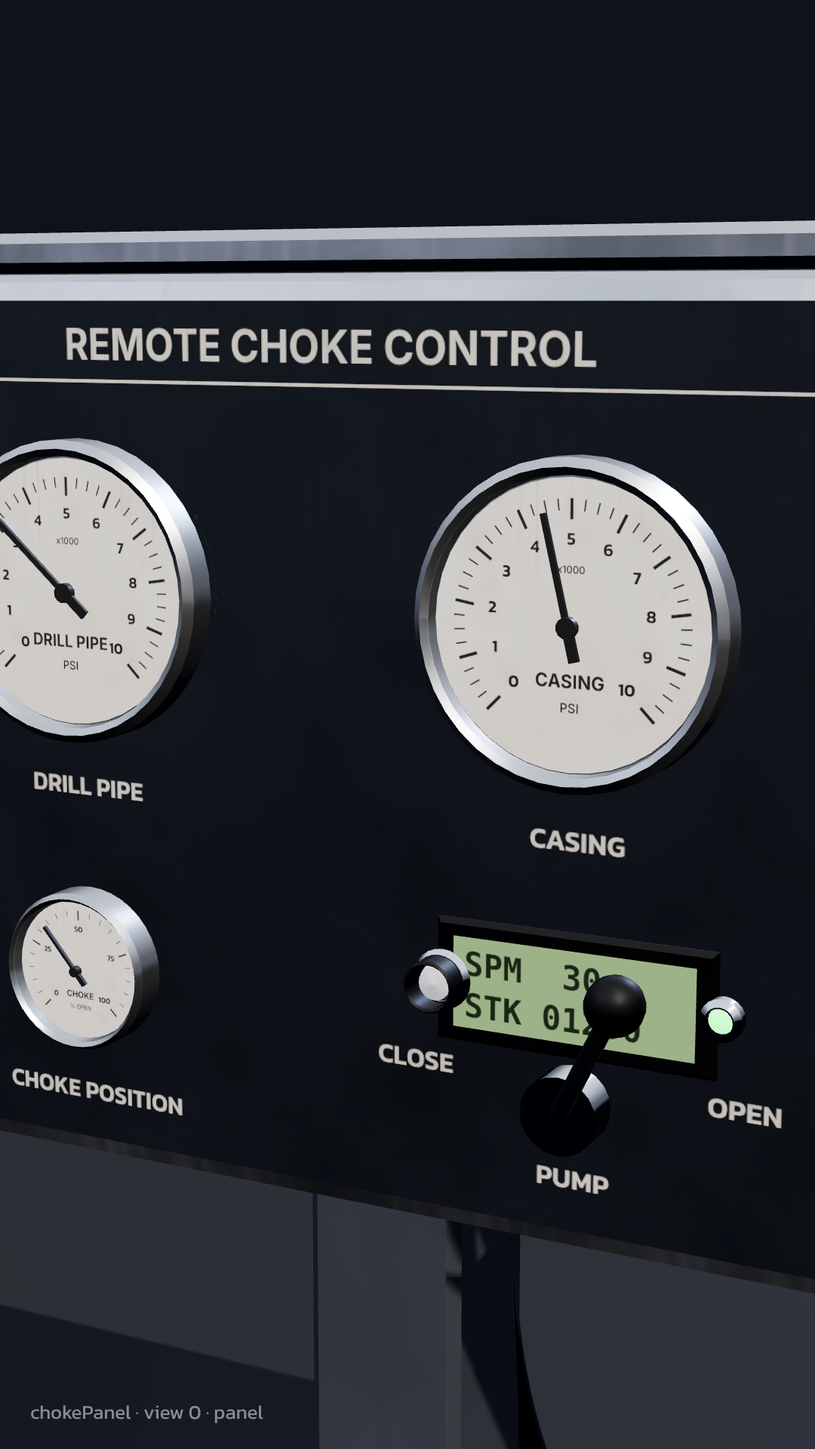
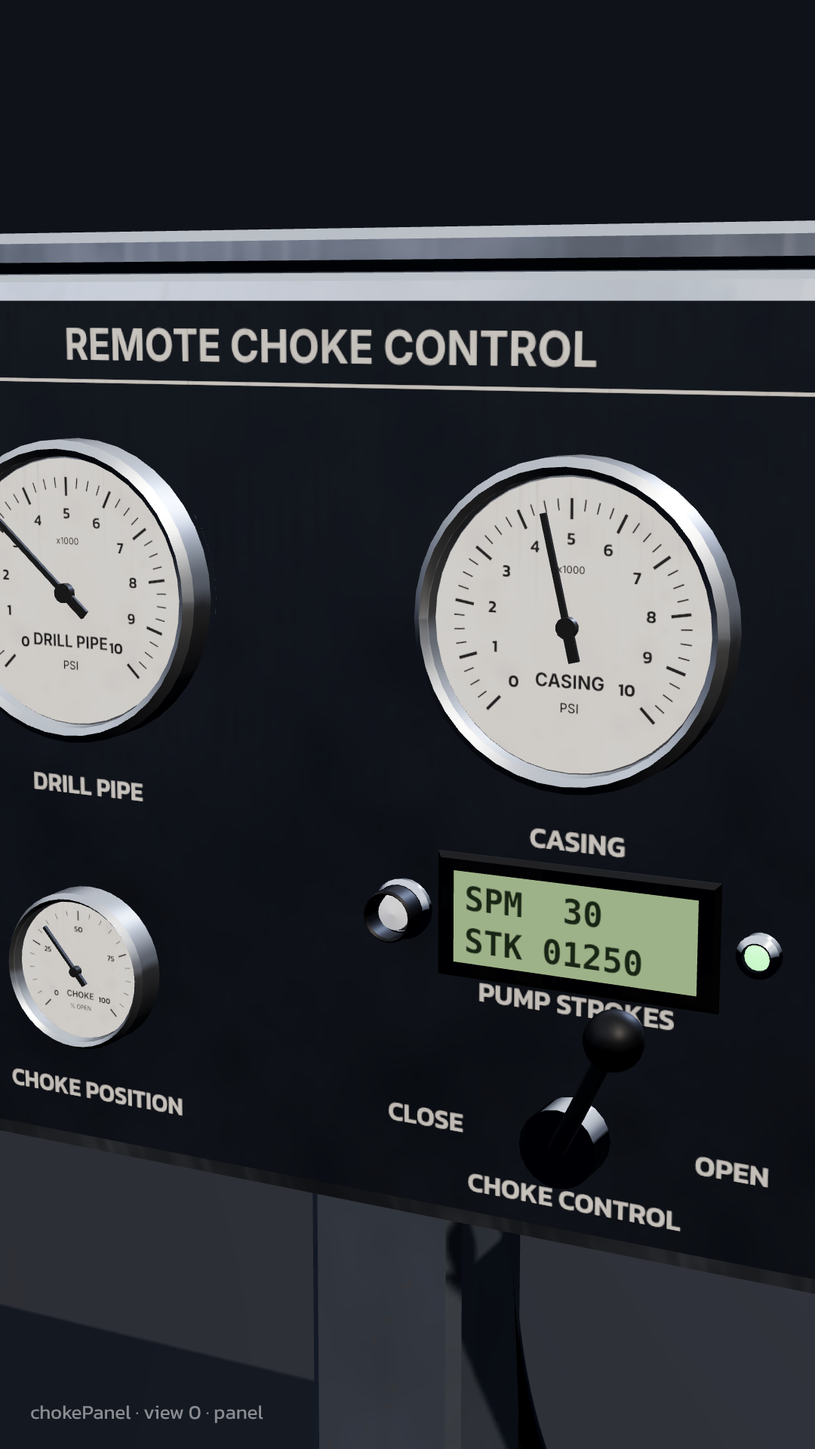
EP05 Part 5: score + 9 new realistic SFX (music.js)
Claude-Session: https://claude.ai/code/session_01KpdDVCL1h8kp9iBLHqqnBc

Changed region(s): [[0.4583, 0.5938, 0.9167, 0.875], [0.8556, 0.75, 0.9778, 0.8438], [0.9167, 0.625, 0.9472, 0.6875]]

diff --git a/ep05-rig-p5-wellcontrol/assets_p5.js b/ep05-rig-p5-wellcontrol/assets_p5.js
@@ -1452,7 +1452,7 @@ vec3 wTri(vec3 p, vec3 n, out float side) {
     const fluid = new THREE.Mesh(lathe([[0, 0.058], ...inner.map(p => [p[0] - 0.002, p[1], 1]), [0, Hh - 0.035]], SEG(40)), fluidM); CB.add(fluid);
     // bladder: hangs from the top, its shape squeezes with the charge level
     const bl = new THREE.Group(); bl.position.y = Hh - 0.06; CB.add(bl);
-    const bprof = []; for (let i = 0; i <= 18; i++) { const t = i / 18; const y = -t; const r = (R - 0.02) * Math.sin(Math.min(1, t * 6) * PI / 2) * (t > 0.85 ? Math.cos((t - 0.85) / 0.15 * PI / 2) : 1); bprof.push([Math.max(0.0, r), y * (Hh - 0.13)]); }
+    const bprof = []; for (let i = 0; i <= 18; i++) { const t = i / 18; const y = -t; const r = (R - 0.0135) * Math.sin(Math.min(1, t * 6) * PI / 2) * (t > 0.85 ? Math.cos((t - 0.85) / 0.15 * PI / 2) : 1); bprof.push([Math.max(0.0, r), y * (Hh - 0.13)]); }
     const blOuter = bprof.map(p => [p[0], p[1], 1]), blInner = bprof.map(p => [Math.max(0, p[0] - 0.005), p[1] + 0.005, 1]);
     const bladder = new THREE.Mesh(lathe([[0.01, 0], ...blOuter.slice(1), ...blInner.slice(1).reverse(), [0.01, 0]], SEG(40)), CP.rubber); bl.add(bladder);
     const n2 = new THREE.Mesh(lathe([[0, -0.004], ...blInner.slice(1).map(p => [Math.max(0, p[0] - 0.001), p[1], 1]), [0, blInner[blInner.length - 1][1]]], SEG(40)), n2M); bl.add(n2);
@@ -1580,8 +1580,8 @@ vec3 wTri(vec3 p, vec3 n, out float side) {
     const c = canvas(1024, 820), x = c.getContext('2d');
     x.fillStyle = '#2a3038'; x.fillRect(0, 0, 1024, 820);
     x.fillStyle = '#e8e4da'; x.font = `700 40px ${FONT}`; x.textAlign = 'center'; x.fillText('REMOTE CHOKE CONTROL', 512, 54); x.fillRect(40, 72, 944, 3);
-    x.font = `600 26px ${FONT}`; x.fillText('DRILL PIPE', 260, 470); x.fillText('CASING', 764, 470); x.fillText('CHOKE POSITION', 260, 780); x.fillText('PUMP', 764, 780);
-    x.fillText('CLOSE', 610, 690); x.fillText('OPEN', 920, 690);
+    x.font = `600 26px ${FONT}`; x.fillText('DRILL PIPE', 260, 470); x.fillText('CASING', 764, 470); x.fillText('CHOKE POSITION', 260, 780); x.fillText('PUMP STROKES', 764, 618); x.fillText('CHOKE CONTROL', 764, 800);
+    x.fillText('CLOSE', 620, 745); x.fillText('OPEN', 910, 745);
     grime(x, 1024, 820, 23, 0.08);
     const fp = new THREE.Mesh(new THREE.PlaneGeometry(W - 0.04, Hc - 0.04), labelMat(ctex(c), { metal: 0.1, rough: 0.6 })); face.add(fp);
     const fx = px => (px / 1024 - 0.5) * (W - 0.04), fy = py => (0.5 - py / 820) * (Hc - 0.04);
@@ -1590,16 +1590,16 @@ vec3 wTri(vec3 p, vec3 n, out float side) {
     const cp = gauge(P, 0.06, dialTex({ max: 100, major: 25, minor: 5, label: 'CHOKE', sub: '% OPEN' }), { stem: 0 }); cp.group.position.set(fx(260), fy(640), 0.012); face.add(cp.group);
     // LCD stroke counter
     const lc = canvas(512, 192), lx = lc.getContext('2d'), lt = ctex(lc);
-    const lcd = new THREE.Mesh(new THREE.PlaneGeometry(0.19, 0.07), new THREE.MeshBasicMaterial({ map: lt, toneMapped: false })); lcd.position.set(fx(764), fy(600), 0.006); face.add(lcd);
-    B.add('black', place(cbox(0.22, 0.095, 0.02, 0.004), [fx(764), 1.0 + Hc / 2 + fy(600), D / 2 - 0.004]));
+    const lcd = new THREE.Mesh(new THREE.PlaneGeometry(0.19, 0.07), new THREE.MeshBasicMaterial({ map: lt, toneMapped: false })); lcd.position.set(fx(764), fy(540), 0.006); face.add(lcd);
+    B.add('black', place(cbox(0.22, 0.095, 0.02, 0.004), [fx(764), 1.0 + Hc / 2 + fy(540), D / 2 - 0.004]));
     const drawLCD = (spm, stk) => { lx.fillStyle = '#9db08a'; lx.fillRect(0, 0, 512, 192); lx.fillStyle = '#1d2a1a'; lx.font = `700 70px ${MONO}`; lx.textAlign = 'left';
       lx.fillText(`SPM ${String(Math.round(spm)).padStart(3, ' ')}`, 24, 80); lx.fillText(`STK ${String(Math.round(stk)).padStart(5, '0')}`, 24, 168); lt.needsUpdate = true; };
     // choke control lever (3-position, spring return to HOLD)
-    const lev = new THREE.Group(); lev.position.set(fx(764), fy(700), 0.01); face.add(lev);
-    { const hub = new THREE.Mesh(toZ(cyl(0.03, 0.03, 20)), P.chrome); hub.position.set(fx(764), fy(700), 0.015); face.add(hub); }
+    const lev = new THREE.Group(); lev.position.set(fx(764), fy(730), 0.01); face.add(lev);
+    { const hub = new THREE.Mesh(toZ(cyl(0.03, 0.03, 20)), P.chrome); hub.position.set(fx(764), fy(730), 0.015); face.add(hub); }
     const LB = bin(); LB.add('chrome', cylBetween([0, 0, 0.02], [0, 0.11, 0.05], 0.007, 10)); LB.add('black', place(new THREE.SphereGeometry(0.022, 16, 10), [0, 0.115, 0.052])); LB.build(lev, P, 'lever');
-    const pl = lamp(P, 0x22c55e, 0.01); pl.group.position.set(fx(900), fy(600), 0); face.add(pl.group);
-    const rb = pushButton(P, 0xe5e7eb, 0.015); rb.group.position.set(fx(640), fy(600), 0); face.add(rb.group);
+    const pl = lamp(P, 0x22c55e, 0.01); pl.group.position.set(fx(930), fy(540), 0); face.add(pl.group);
+    const rb = pushButton(P, 0xe5e7eb, 0.015); rb.group.position.set(fx(600), fy(540), 0); face.add(rb.group);
     B.build(g, P, 'panel');
     g.api.setDP = v => dp.setValue(v); g.api.setCasing = v => cs.setValue(v); g.api.setChokePos = u => cp.setValue(clamp(u));
     g.api.setLever = u => { lev.rotation.z = lerp(0.5, -0.5, clamp(u)); };
@@ -1758,7 +1758,7 @@ vec3 wTri(vec3 p, vec3 n, out float side) {
     H.moveTo(-0.199, -0.03); H.lineTo(-0.05, -0.03); H.lineTo(-0.05, 0.135); H.lineTo(0.05, 0.135); H.lineTo(0.05, 0.03); H.lineTo(0.03, 0.03); H.lineTo(0.03, 0.03); H.lineTo(0.022, 0.0);
     H.lineTo(0.022, -0.04); H.lineTo(0.199, -0.04); H.lineTo(0.199, -0.1); H.lineTo(-0.022, -0.1); H.lineTo(-0.022, -0.06); H.lineTo(-0.03, -0.06); H.lineTo(-0.03, -0.03); H.closePath();
     sh.holes.push(H);
-    CB.add('grey', extZ(sh, -0.05, 0.05, 0, 8));
+    CB.add('grey', extZ(sh, -0.053, 0.053, 0, 8));
     CB.add('grey', extZ(rrectShape(-0.2, -0.2, 0.2, 0.17, 0.03), 0.05, 0.13, 0.012, 8));
     CB.add('grey', extZ(rrectShape(-0.2, -0.2, 0.2, 0.17, 0.03), -0.13, -0.05, 0.012, 8));
     for (const s of [1, -1]) { // end flanges (inlet low, outlet low)
@@ -1826,7 +1826,7 @@ vec3 wTri(vec3 p, vec3 n, out float side) {
     B.add('paint', lathe([...outer, ...inner.slice().reverse(), outer[0]], SEG(56)));
     // legs (4 pipe legs) + base plates, nozzle reinforcement pads
     for (let i = 0; i < 4; i++) { const a = PI / 4 + i * PI / 2, x = Math.cos(a) * (R - 0.02), z = Math.sin(a) * (R - 0.02);
-      B.add('paint', cylBetween([x * 1.18, 0.02, z * 1.18], [x, Y0 + 0.3, z], 0.07, 14)); B.add('skid', place(cbox(0.3, 0.02, 0.3, 0.004), [x * 1.18, 0.01, z * 1.18])); }
+      B.add('paint', cylBetween([x * 1.18, 0.02, z * 1.18], [x * 1.08, Y0 + 0.25, z * 1.08], 0.07, 14)); B.add('paint', place(cbox(0.16, 0.3, 0.03, 0.006), [x * 1.04, Y0 + 0.3, z * 1.04], [0, -Math.atan2(z, x) + PI / 2, 0])); B.add('skid', place(cbox(0.3, 0.02, 0.3, 0.004), [x * 1.18, 0.01, z * 1.18])); }
     // inlet nozzle (4") at +x, flanged, with incoming line
     const yIn = 4.4;
     B.add('paint', place(toX(cyl(0.06, 0.4, 18)), [R + 0.1, yIn, 0])); B.add('grey', place(toX(lathe([[0.05, 0], [0.135, 0], [0.135, 0.05], [0.07, 0.07], [0.05, 0.07]], SEG(24))), [R + 0.3, yIn, 0], [0, PI, 0]));
@@ -1951,6 +1951,247 @@ vec3 wTri(vec3 p, vec3 n, out float side) {
     return g;
   }
 
+
+  // ================================================================== IN-PIPE VALVES
+  // ball valve sub body: closed lathe with bore r 0.038 and a spherical ball cavity at yb (radius rb); box up, pin down
+  function ballSubProfile(y0, y1, R, yb, rb = 0.072, bore = 0.038) {
+    const outer = [[bore, y0], [R * 0.82, y0], [R * 0.86, y0 + 0.012], [R * 0.86, y0 + 0.09], [R - 0.006, y0 + 0.1], [R, y0 + 0.106], [R, y1 - 0.006], [R - 0.006, y1]];
+    const inner = [[bore, y0], [bore, yb - rb * 0.95]];
+    for (let i = 1; i < 12; i++) { const a = -PI / 2 + i / 12 * PI; inner.push([Math.max(bore, rb * Math.cos(a) * 1.02), yb + rb * Math.sin(a), 1]); }
+    inner.push([bore, yb + rb * 0.95], [bore, y1 - 0.12], [0.06, y1 - 0.11], [0.062, y1]);
+    return [...outer, ...inner.slice().reverse()];
+  }
+  function ballGeo(rb = 0.07, bore = 0.038) { // sphere with a through bore along y (lathe), flats for the stem on +-x
+    const pts = [[bore, -Math.sqrt(rb * rb - bore * bore)]];
+    for (let i = 1; i < 16; i++) { const a = -PI / 2 + i / 16 * PI; const r = rb * Math.cos(a); if (r > bore) pts.push([r, rb * Math.sin(a), 1]); }
+    pts.push([bore, Math.sqrt(rb * rb - bore * bore)], [bore, -Math.sqrt(rb * rb - bore * bore)]);
+    return lathe(pts, SEG(36));
+  }
+  // top drive IBOP pair: drive-stem stub, upper IBOP (remote, actuator yoke + crank + 2 cylinders), lower IBOP (manual,
+  // hex socket for the IBOP wrench), saver sub. y = 0 at the saver-sub pin. Stem (ball axis) along x.
+  // api: setUpper(u), setLower(u) (0 open .. 1 closed, ball turns 90 deg about x), setCut(u)
+  // anchors: upper, lower, socket (lower IBOP wrench socket), actuator
+  function ibopValves(o = {}) {
+    const g = asset('ibopValves'); const P = palette({ grey: 0x6b7280, ...(o.colors || {}) }), B = bin(), R = 0.1;
+    const yL = 0.42, yU = 1.12;
+    B.add('machined', lathe([[0.038, 0], [0.07, 0], [0.075, 0.02], [0.075, 0.12], [R - 0.01, 0.13], [R, 0.15], [R, 0.18], [0.038, 0.18], [0.038, 0]], SEG(40))); // saver sub
+    B.add('greyLt', lathe(ballSubProfile(0.18, 0.72, R, yL), SEG(48)));
+    B.add('greyLt', lathe(ballSubProfile(0.72, 1.55, R + 0.004, yU), SEG(48)));
+    B.add('machined', lathe([[0.038, 1.55], [0.09, 1.55], [0.095, 1.57], [0.095, 2.1], [0.038, 2.1], [0.038, 1.55]], SEG(40))); // drive stem stub
+    for (const y of [0.72, 1.55]) B.add('nut', lathe([[R - 0.004, y - 0.006], [R + 0.004, y - 0.004], [R + 0.004, y + 0.004], [R - 0.004, y + 0.006]], SEG(48))); // tool-joint shoulders
+    // lower IBOP: hex socket on +x (wrench), stem caps both sides
+    for (const s of [1, -1]) { B.add('machined', place(toX(cyl(0.03, 0.012, 20)), [s * (R + 0.002), yL, 0])); }
+    B.add('black', place(toX(cyl(0.017, 0.014, 6)), [R + 0.006, yL, 0]));
+    // upper IBOP actuator: shell collar, yoke arms, 2 hydraulic cylinders, crank on the +x stem
+    B.add('grey', lathe([[R + 0.005, yU - 0.2], [R + 0.07, yU - 0.2], [R + 0.075, yU - 0.19], [R + 0.075, yU + 0.25], [R + 0.07, yU + 0.26], [R + 0.005, yU + 0.26], [R + 0.005, yU - 0.2]], SEG(48)));
+    for (const s of [1, -1]) {
+      B.add('yellow', place(cbox(0.06, 0.32, 0.05, 0.008), [s * (R + 0.11), yU + 0.03, 0.12]));
+      B.add('grey', place(cyl(0.035, 0.24, 16), [s * (R + 0.11), yU + 0.1, -0.12]));
+      B.add('machined', place(cyl(0.012, 0.12, 10), [s * (R + 0.11), yU - 0.06, -0.12]));
+      B.add('hose', pipe([[s * (R + 0.11), yU + 0.22, -0.12], [s * (R + 0.11), yU + 0.4, -0.14], [s * 0.05, yU + 0.7, -0.25]], 0.01, 0.06, 8));
+    }
+    B.build(g, P, 'ibop');
+    const mkBall = (y, crank) => { const grp = new THREE.Group(); grp.position.y = y; g.add(grp); const m = new THREE.Mesh(ballGeo(0.068), P.chrome); m.castShadow = true; grp.add(m);
+      const sb = bin(); for (const s of [1, -1]) sb.add('carbide', place(lathe([[0.04, -0.012], [0.07, -0.012], [0.07, 0.012], [0.042, 0.012], [0.04, -0.012]], SEG(32)), [0, s * 0.062, 0])); sb.build(g, P, 'seats').position.y = 0;
+      return grp; };
+    // seats live in the body (static): rebuild with y offsets
+    const seatsL = bin(), seatsU = bin();
+    for (const [bb, y] of [[seatsL, yL], [seatsU, yU]]) { for (const s of [1, -1]) bb.add('carbide', place(lathe([[0.04, -0.012], [0.072, -0.012], [0.072, 0.012], [0.042, 0.012], [0.04, -0.012]], SEG(32)), [0, y + s * 0.064, 0])); bb.build(g, P, 'seat'); }
+    const ballL = new THREE.Group(); ballL.position.y = yL; g.add(g.part('lowerBall', ballL)); const bl = new THREE.Mesh(ballGeo(0.068), P.chrome); bl.castShadow = true; ballL.add(bl);
+    const ballU = new THREE.Group(); ballU.position.y = yU; g.add(g.part('upperBall', ballU)); const bu = new THREE.Mesh(ballGeo(0.068), P.chrome); bu.castShadow = true; ballU.add(bu);
+    const crank = new THREE.Mesh(merge([place(cbox(0.03, 0.16, 0.03, 0.005), [0, 0.06, 0]), toX(cyl(0.03, 0.03, 16))]), P.machined); crank.position.set(R + 0.09, yU, 0); g.add(g.part('crank', crank));
+    const cutMats = collectMats(g, [P.chrome, P.machined]).concat([]);
+    const cut = cutter(g, collectMats(g, [P.chrome]), { extent: 0.2 });
+    g.api.setCut = u => cut.set(u); g.api.refreshCut = () => cut.refresh();
+    g.api.setUpper = u => { const a = easeIO(u) * PI / 2; ballU.rotation.x = a; crank.rotation.x = a; };
+    g.api.setLower = u => { ballL.rotation.x = easeIO(u) * PI / 2; };
+    g.api.setUpper(0); g.api.setLower(0);
+    g.anchor('upper', [R + 0.2, yU, 0.15]); g.anchor('lower', [R + 0.1, yL, 0.12]); g.anchor('socket', [R + 0.02, yL, 0]); g.anchor('actuator', [R + 0.12, yU + 0.1, 0.18]);
+    g.traverse(mm => { if (mm.isMesh) mm.userData.sys = 'wc'; });
+    return g;
+  }
+  // FOSV (full-opening safety / TIW valve) standing on the rig floor, open, with its wrench and a crossover beside it.
+  // y = 0 floor. api: setClose(u) (ball + wrench turn 90 deg), setWrenchIn(u) (0 lying beside .. 1 in the socket),
+  //      setCut(u). anchors: valve, socket, wrench
+  function fosv(o = {}) {
+    const g = asset('fosv'); const P = palette({ ...(o.colors || {}) }), B = bin(), R = 0.085, yb = 0.33;
+    const body = new THREE.Group(); g.add(body);
+    B.add('greyLt', lathe(ballSubProfile(0.0, 0.62, R, yb, 0.062, 0.036), SEG(48)));
+    B.add('yellow', lathe([[R, 0.5], [R + 0.003, 0.5], [R + 0.003, 0.53], [R, 0.53]], SEG(48))); // colour band (valve ID)
+    B.add('machined', place(toZ(cyl(0.026, 0.01, 20)), [0, yb, R + 0.001])); B.add('black', place(toZ(cyl(0.015, 0.012, 6)), [0, yb, R + 0.004]));
+    B.add('machined', place(toZ(cyl(0.026, 0.01, 20)), [0, yb, -R - 0.001]));
+    // stand / thread protector on the floor
+    B.add('black', lathe([[0, 0], [0.07, 0], [0.07, 0.03], [0, 0.03]], SEG(24)));
+    // open / close marks
+    const mk = new THREE.Mesh(new THREE.PlaneGeometry(0.06, 0.03), labelMat(nameplateTex([], { title: 'OPEN', w: 256, h: 128 }))); mk.position.set(0, yb + 0.06, R + 0.002); g.add(mk);
+    // crossover sub beside it
+    B.add('machined', place(lathe([[0.03, 0], [0.075, 0], [0.075, 0.18], [0.065, 0.2], [0.065, 0.36], [0.03, 0.36], [0.03, 0]], SEG(32)), [0.32, 0, -0.12]));
+    B.build(g, P, 'fosv');
+    const ball = new THREE.Group(); ball.position.y = yb; g.add(g.part('ball', ball)); const bm = new THREE.Mesh(ballGeo(0.06, 0.036).rotateZ(0), P.chrome); ball.add(bm);
+    const sb = bin(); for (const s of [1, -1]) sb.add('carbide', place(lathe([[0.036, -0.01], [0.064, -0.01], [0.064, 0.01], [0.038, 0.01], [0.036, -0.01]], SEG(32)), [0, yb + s * 0.057, 0])); sb.build(g, P, 'seats');
+    // wrench: hex key bar (L) — short leg in the socket, long handle
+    const wr = new THREE.Group(); g.add(g.part('wrench', wr));
+    const wb = bin(); wb.add('wheel', place(cbox(0.034, 0.034, 0.5, 0.004), [0, 0, 0.27])); wb.add('machined', place(toZ(cyl(0.015, 0.06, 6)), [0, 0, 0.0])); wb.add('black', place(cbox(0.044, 0.044, 0.16, 0.006), [0, 0, 0.45]));
+    wb.build(wr, P, 'wrench');
+    let wIn = 0, cl = 0;
+    const upd = () => {
+      const e = easeIO(wIn);
+      // lying on the floor beside the valve -> socket (+z face), handle pointing up then turned
+      const lie = { p: V3(0.02, 0.022, 0.24), r: new THREE.Euler(0, 1.45, 0) }, ins = { p: V3(0, yb, R + 0.03), r: new THREE.Euler(-PI / 2 + 0.0, 0, 0) };
+      wr.position.lerpVectors(lie.p, ins.p, e);
+      const q0 = new THREE.Quaternion().setFromEuler(lie.r), q1 = new THREE.Quaternion().setFromEuler(new THREE.Euler(0, 0, -easeIO(cl) * PI / 2)).multiply(new THREE.Quaternion().setFromEuler(ins.r));
+      wr.quaternion.slerpQuaternions(q0, q1, e);
+      ball.rotation.z = easeIO(cl) * PI / 2;
+    };
+    g.api.setWrenchIn = u => { wIn = clamp(u); upd(); }; g.api.setClose = u => { cl = clamp(u); upd(); };
+    const cut = cutter(g, collectMats(g, [P.chrome, P.wheel, P.black]), { extent: 0.15 });
+    g.api.setCut = u => cut.set(u); g.api.refreshCut = () => cut.refresh();
+    upd(); g.anchor('valve', [0, 0.45, R + 0.1]); g.anchor('socket', [0, yb, R]); g.anchor('wrench', [0.22, 0.05, 0.3], wr);
+    g.traverse(mm => { if (mm.isMesh) mm.userData.sys = 'wc'; });
+    return g;
+  }
+  // float sub with a flapper float valve, just above the bit. y = 0 at the pin. api: setFlap(u) (0 open, pushed down
+  // by flow .. 1 closed on the seat by back-flow; small bounce near 1), setCut(u). anchors: flapper, seat, flowIn
+  function floatSub(o = {}) {
+    const g = asset('floatSub'); const P = palette({}), B = bin(), R = 0.085, L = 0.9;
+    B.add('greyLt', lathe([[0.05, 0], [0.07, 0], [0.074, 0.012], [0.074, 0.1], [R, 0.11], [R, L - 0.005], [R - 0.005, L], [0.058, L], [0.058, 0.62], [0.052, 0.6], [0.052, 0.12], [0.05, 0.1], [0.05, 0]], SEG(48)));
+    // valve cartridge: cage sleeve + seat
+    const yS = 0.5;
+    B.add('machined', lathe([[0.034, yS - 0.32], [0.051, yS - 0.32], [0.051, yS + 0.08], [0.034, yS + 0.08], [0.034, yS + 0.0], [0.03, yS - 0.005], [0.03, yS - 0.02], [0.044, yS - 0.03], [0.044, yS - 0.3], [0.034, yS - 0.32]], SEG(40)));
+    B.add('rubber', lathe([[0.03, yS - 0.03], [0.036, yS - 0.03], [0.036, yS - 0.022], [0.03, yS - 0.022], [0.03, yS - 0.03]], SEG(40))); // seat seal
+    B.build(g, P, 'float');
+    // flapper (disc + hinge pin + torsion spring) hinged at -x below the seat
+    const fl = new THREE.Group(); fl.position.set(-0.034, yS - 0.04, 0); g.add(g.part('flapper', fl));
+    const fb = bin(); fb.add('chrome', place(cyl(0.036, 0.01, 28), [0.034, 0, 0])); fb.add('chrome', place(cbox(0.016, 0.012, 0.02, 0.002), [0.004, 0, 0])); fb.add('black', place(cyl(0.03, 0.004, 28), [0.034, 0.007, 0]));
+    fb.build(fl, P, 'flap');
+    const pin = new THREE.Mesh(toZ(cyl(0.004, 0.05, 8)), P.stud); pin.position.copy(fl.position); g.add(pin);
+    const spring = new THREE.Mesh(new THREE.TorusGeometry(0.008, 0.0018, 6, 16).rotateY(PI / 2), P.stud); spring.position.copy(fl.position); g.add(spring);
+    const cut = cutter(g, collectMats(g, [P.chrome, P.stud]), { extent: 0.12 });
+    g.api.setCut = u => cut.set(u); g.api.refreshCut = () => cut.refresh();
+    // open = swung down along the cage wall (-90 deg), closed = horizontal under the seat
+    g.api.setFlap = u => { u = clamp(u); const k = u < 0.85 ? easeIn(u / 0.85) : 1 + 0.05 * Math.sin((u - 0.85) / 0.15 * PI) * (1 - (u - 0.85) / 0.15); fl.rotation.z = -PI / 2 * (1 - Math.min(1.02, k)); };
+    g.api.setFlap(0);
+    g.anchor('flapper', [0, yS - 0.05, 0.1]); g.anchor('seat', [0, yS, 0.1]); g.anchor('flowIn', [0, L, 0]);
+    g.traverse(mm => { if (mm.isMesh) mm.userData.sys = 'wc'; });
+    return g;
+  }
+
+  // ================================================================== DIVERTER on the conductor (shallow-gas top hole)
+  // diverter({ ventLength = 7 })  y = 0 ground. 30" conductor, 29-1/2" 500 psi diverter housing (y 0.6..1.55), two 12" vent
+  // outlets (+x / -x) with hydraulic full-opening valves and vent lines, flowline outlet (-z).
+  // api: setClose(u) (packer closes onto the pipe), setVent(side, u) side 'R'|'L' (valve indicator), setCut(u)
+  // anchors: diverter, ventR, ventL, ventEndR, ventEndL, flowline, packer
+  function diverter(o = {}) {
+    const g = asset('diverter'); const P = palette({ paint: 0x6b6f2a, ...(o.colors || {}) }), B = bin(), bolts = boltSet();
+    const F = FL['29-1/2x500'], Rc = 0.381, y0 = 0.6, y1 = 1.55, Rb = 0.82, vl = o.ventLength ?? 7;
+    B.add('gun', lathe([[Rc - 0.02, -1.2], [Rc, -1.2], [Rc, y0], [Rc - 0.02, y0], [Rc - 0.02, -1.2]], SEG(56))); // conductor
+    B.add('paint', lathe([[0.38, y0], [F.R, y0], [F.R, y0 + F.T], [Rb, y0 + F.T + 0.05], [Rb, y1 - 0.12], [Rb - 0.05, y1 - 0.05], [0.55, y1], [0.38, y1], [0.38, y1 - 0.25, 0, 'machined'], [0.6, y1 - 0.3], [0.6, y0 + 0.25], [0.38, y0 + 0.2], [0.38, y0]], SEG(64)));
+    bolts.circle(null, F.BC, F.n, F.d, y0 - 0.05, y0 + F.T + 0.03, [y0 + F.T + 0.015], 0.5, 501);
+    B.add('paint', place(padEye(0.15, 0.17, 0.05, 0.035), [0, y1 - 0.02, 0.5], [0, 0, 0]));
+    const vents = {};
+    for (const [k, s] of [['R', 1], ['L', -1]]) {
+      const yv = y0 + 0.42, vr = 0.162;
+      B.add('paint', place(toX(cyl(vr + 0.015, 0.4, 28)), [s * (Rb + 0.12), yv, 0]));
+      const vg = new THREE.Group(); vg.position.set(s * (Rb + 0.55), yv, 0); g.add(vg);
+      const vb = bin(); vb.add('grey', cbox(0.36, 0.5, 0.42, 0.03)); vb.add('grey', place(cyl(0.12, 0.35, 28), [0, 0.42, 0])); vb.add('grey', place(cyl(0.135, 0.04, 28), [0, 0.61, 0]));
+      for (const ss of [1, -1]) vb.add('grey', place(toX(lathe([[vr, 0], [vr + 0.12, 0], [vr + 0.12, 0.05], [vr + 0.02, 0.08], [vr, 0.08]], SEG(28))), [ss * 0.22, 0, 0], ss > 0 ? [0, PI, 0] : [0, 0, 0]));
+      vb.build(vg, P, 'ventValve');
+      const ind = new THREE.Mesh(cyl(0.02, 0.15, 10), P.yellow); vg.add(ind); vents[k] = ind;
+      B.add('grey', pipe([[s * (Rb + 0.78), yv, 0], [s * (Rb + 0.78 + vl), yv, 0]], vr, 0.4, 28));
+      for (let d = 2; d < vl; d += 2.5) B.add('skid', place(cbox(0.25, yv - vr, 0.3, 0.01), [s * (Rb + 0.78 + d), (yv - vr) / 2, 0]));
+      g.anchor('vent' + k, [s * (Rb + 0.55), yv + 0.4, 0.3]); g.anchor('ventEnd' + k, [s * (Rb + 0.78 + vl), yv, 0]);
+    }
+    B.add('paint', place(cyl(0.15, 0.4, 24).rotateX(PI / 2), [0, y1 - 0.3, -(Rb + 0.12)])); g.anchor('flowline', [0, y1 - 0.3, -(Rb + 0.35)]);
+    // packer (rubber) inside the housing: annular ring that closes in
+    const pk = new THREE.Mesh(lathe([[0.4, y0 + 0.3], [0.59, y0 + 0.3], [0.59, y1 - 0.32], [0.4, y1 - 0.32], [0.4, y0 + 0.3]], SEG(56)), P.rubber); g.add(g.part('packer', pk));
+    const pipeM = mat(0x46505b, { kind: 'steel', metal: 0.7, rough: 0.42, blotch: 0.2, streak: 0.1, scale: 2 });
+    const dp = new THREE.Mesh(drillPipeGeo(-1.0, 3.2), pipeM); g.add(g.part('pipe', dp));
+    const st = new THREE.Mesh(new THREE.CylinderGeometry(Rb + 0.003, Rb + 0.003, 0.3, 32, 1, true, -0.5, 1.0), decalMat(stencilTex([['DIVERTER 29-1/2" 500 PSI', 70]], { w: 1024, h: 128 }))); st.position.y = y0 + 0.62; g.add(st);
+    B.build(g, P, 'div'); bolts.build(g, P);
+    const cut = cutter(g, collectMats(g, [pipeM]), { extent: 1.0 });
+    g.api.setCut = u => cut.set(u); g.api.refreshCut = () => cut.refresh();
+    g.api.setClose = u => { const e = easeIO(u), rin = lerp(0.4, PIPE_R + 0.0, e); const k = (rin) / 0.4; pk.scale.set(lerp(1, 0.62, e), 1 + 0.08 * e, lerp(1, 0.62, e)); pk.position.y = -0.04 * e; };
+    g.api.setVent = (side, u) => { const m = vents[side]; if (m) m.position.y = 0.68 + 0.1 * easeIO(u); };
+    g.api.setClose(0); g.api.setVent('R', 0); g.api.setVent('L', 0);
+    g.anchor('diverter', [0, y1, Rb]); g.anchor('packer', [0, (y0 + y1) / 2, 0.6]);
+    g.traverse(mm => { if (mm.isMesh) mm.userData.sys = 'wc'; });
+    return g;
+  }
+
+  // ================================================================== TEST PLUG + CHART RECORDER
+  // testPlug()  origin at the landing shoulder (place at casingHead/stack anchor 'bowl' or at y 0.315 above the casing-
+  // head base). Mandrel with box connection + drill-pipe stub, plug body with elastomer seal, 45 deg landing shoulder,
+  // bull nose, weep port. api: setDrop(u) (0 = landed .. 1 = 1.2 m above), setSeal(u) (seal swells)
+  function testPlug(o = {}) {
+    const g = asset('testPlug'); const P = palette({}), B = bin();
+    const R = 0.172;
+    B.add('greyLt', lathe([[0, -0.12], [0.08, -0.12], [0.12, -0.06], [0.156, -0.015], [R - 0.004, 0.0], [R, 0.004], [R, 0.06], [R - 0.004, 0.065], [0.16, 0.065], [0.16, 0.1], [R, 0.1], [R, 0.16], [0.14, 0.18], [0.1, 0.19], [0.09, 0.26], [0.0, 0.26]], SEG(56)));
+    const seal = new THREE.Mesh(lathe([[0.155, 0.065], [R + 0.003, 0.068, 1], [R + 0.004, 0.082, 1], [R + 0.003, 0.097], [0.155, 0.1], [0.155, 0.065]], SEG(56)), P.rubber); g.add(g.part('seal', seal));
+    B.add('black', place(toX(cyl(0.008, 0.02, 8)), [R - 0.005, 0.13, 0])); // weep port
+    for (let i = 0; i < 4; i++) { const a = i / 4 * TAU + PI / 4; B.add('nut', place(cyl(0.018, 0.012, 12), [Math.cos(a) * 0.13, 0.181, Math.sin(a) * 0.13])); } // lifting holes / set screws
+    B.add('machined', drillPipeGeo(0.26, 1.6, 0.42));
+    B.build(g, P, 'plug');
+    g.api.setDrop = u => { g.children.forEach(c => { if (c.isMesh) c.position.y = 1.2 * easeIO(u); }); };
+    g.api.setSeal = u => { seal.scale.set(1 + 0.012 * clamp(u), 1, 1 + 0.012 * clamp(u)); };
+    g.anchor('plug', [0, 0.1, R + 0.05]); g.anchor('seal', [R, 0.08, 0]);
+    g.traverse(mm => { if (mm.isMesh) mm.userData.sys = 'wc'; });
+    return g;
+  }
+  // circular chart recorder (12" chart, 0-15,000 psi, pen + rotating chart). Box faces +z, centre at y 1.2 on a stand.
+  // api: setTrace(u, profile?)  u = test time 0..1; profile(u) -> psi (default: low test 300 psi hold, bleed, high test
+  //      10,000 psi hold flat); the trace is drawn on the chart up to u, the chart turns, the pen follows.
+  // anchors: chart, pen
+  function chartRecorder(o = {}) {
+    const g = asset('chartRecorder'); const P = palette({ paint: 0x2f3a46 }), B = bin();
+    const Y = 1.2, Rch = 0.152;
+    B.add('paint', place(cbox(0.42, 0.46, 0.13, 0.015, 2), [0, Y, 0]));
+    B.add('stainless', toZ(lathe([[Rch + 0.006, 0], [Rch + 0.03, 0], [Rch + 0.03, 0.022], [Rch + 0.02, 0.028], [Rch + 0.006, 0.024], [Rch + 0.006, 0]], SEG(48))).translate(0, Y, 0.064));
+    B.add('grey', place(cbox(0.06, Y - 0.23, 0.06, 0.006), [0, (Y - 0.23) / 2, -0.03]));
+    B.add('grey', place(cbox(0.4, 0.02, 0.4, 0.004), [0, 0.01, 0]));
+    B.add('stainless', pipe([[0.16, Y - 0.23, -0.02], [0.16, Y - 0.5, -0.02], [0.3, Y - 0.7, -0.2]], 0.006, 0.05, 6));
+    B.build(g, P, 'rec');
+    const c = canvas(1024, 1024), x = c.getContext('2d'), tx = ctex(c);
+    const chart = new THREE.Mesh(new THREE.CircleGeometry(Rch, SEG(64)), new THREE.MeshStandardMaterial({ map: tx, roughness: 0.8, metalness: 0 }));
+    chart.position.set(0, Y, 0.067); g.add(g.part('chart', chart));
+    const glass = new THREE.Mesh(new THREE.CircleGeometry(Rch + 0.016, 48), new THREE.MeshStandardMaterial({ color: 0xffffff, transparent: true, opacity: 0.1, roughness: 0.05, metalness: 0, depthWrite: false })); glass.position.set(0, Y, 0.088); g.add(glass);
+    const hub = new THREE.Mesh(toZ(cyl(0.01, 0.01, 16)), P.chrome); hub.position.set(0, Y, 0.072); g.add(hub);
+    // pen arm: pivot at upper-left, red ink nib
+    const piv = V3(-0.13, Y + 0.13, 0.076);
+    const arm = new THREE.Group(); arm.position.copy(piv); g.add(g.part('pen', arm));
+    const am = new THREE.Mesh(merge([place(cbox(0.2, 0.004, 0.003, 0.001), [0.1, 0, 0]), place(cyl(0.004, 0.006, 8), [0.2, 0, 0], [PI / 2, 0, 0])]), P.chrome); arm.add(am);
+    const nib = new THREE.Mesh(new THREE.SphereGeometry(0.004, 8, 6), basic(0xb91c1c)); nib.position.set(0.2, 0, -0.004); arm.add(nib);
+    const prof0 = u => u < 0.06 ? 0 : u < 0.1 ? lerp(0, 300, (u - 0.06) / 0.04) : u < 0.36 ? 300 - 6 * (u - 0.1) : u < 0.4 ? lerp(298, 0, (u - 0.36) / 0.04) : u < 0.46 ? 0 : u < 0.56 ? lerp(0, 10000, sstep(0.46, 0.56, u)) : 10000 - 15 * (u - 0.56);
+    const SPAN = PI * 0.9, r0 = 0.12, r1 = 0.96; // trace radius (fraction of chart radius) 0 psi .. 15,000 psi
+    const rOf = psi => r0 + (r1 - r0) * clamp(psi / 15000);
+    function drawChart(u, prof) {
+      x.fillStyle = '#f7f3e8'; x.fillRect(0, 0, 1024, 1024); const C = 512;
+      x.strokeStyle = 'rgba(30,90,160,0.45)';
+      for (let k = 0; k <= 15; k++) { x.lineWidth = k % 5 ? 1 : 2.5; x.beginPath(); x.arc(C, C, C * rOf(k * 1000), 0, TAU); x.stroke(); }
+      for (let k = 0; k < 48; k++) { const a = k / 48 * TAU; x.lineWidth = k % 4 ? 1 : 2; x.beginPath(); x.moveTo(C + Math.cos(a) * C * r0, C + Math.sin(a) * C * r0);
+        // curved time lines (arcs like a real chart): approximate with a bent polyline
+        for (let t = 0; t <= 1; t += 0.1) { const rr = lerp(r0, r1, t), aa = a + 0.35 * t; x.lineTo(C + Math.cos(aa) * C * rr, C + Math.sin(aa) * C * rr); } x.stroke(); }
+      x.fillStyle = 'rgba(30,90,160,0.8)'; x.font = `600 26px ${FONT}`; x.textAlign = 'center';
+      for (let k = 0; k <= 15; k += 5) x.fillText(String(k * 1000), C, C - C * rOf(k * 1000) + 30);
+      x.font = `700 30px ${FONT}`; x.fillText('PSI · 0-15,000', C, C + 90); x.font = `500 24px ${FONT}`; x.fillText('BOP TEST · namman.story', C, C + 130);
+      // trace: chart time angle runs counter-clockwise on the paper; the pen sits at the top (-90 deg on canvas)
+      x.strokeStyle = '#b91c1c'; x.lineWidth = 4; x.lineJoin = 'round'; x.beginPath();
+      const n = Math.max(2, Math.round(240 * u));
+      for (let i = 0; i <= n; i++) { const uu = u * i / n, a = -PI / 2 - SPAN * (u - uu), rr = C * rOf(prof(uu)); const px = C + Math.cos(a) * rr, py = C + Math.sin(a) * rr; i ? x.lineTo(px, py) : x.moveTo(px, py); }
+      x.stroke(); tx.needsUpdate = true;
+    }
+    g.api.setTrace = (u, prof = prof0) => {
+      u = clamp(u); drawChart(u, prof);
+      // pen tip at (0, rOf(p) * Rch) above the centre; arm from the pivot to there
+      const tip = V3(0, Y + rOf(prof(u)) * Rch, 0.076), d = tip.clone().sub(piv);
+      arm.rotation.z = Math.atan2(d.y, d.x); arm.scale.x = d.length() / 0.2;
+    };
+    g.api.profile = prof0;
+    g.api.setTrace(0);
+    g.anchor('chart', [0, Y, 0.12]); g.anchor('pen', [0, Y + 0.1, 0.1]);
+    g.traverse(mm => { if (mm.isMesh) mm.userData.sys = 'wc'; });
+    return g;
+  }
+
   // @@MORE_BUILDERS@@
 
   // ================================================================== exports
@@ -1958,6 +2199,7 @@ vec3 wTri(vec3 p, vec3 n, out float side) {
     // BOP stack and its components
     bopStack, annularPreventer, ramPreventer, drillingSpool, casingHead, bellNipple, gateValve,
     accumulatorUnit, drillerPanel, chokePanel, chokeManifold, adjustableChoke, mudGasSeparator, tripTank,
+    ibopValves, fosv, floatSub, diverter, testPlug, chartRecorder,
     // helpers for the lead
     triCount, palette, easing: { easeIO, easeOut, easeIn, overshoot, ramTravel, sstep }, noiseTexture: NOISE,
     enableClipping: renderer => { renderer.localClippingEnabled = true; },

diff --git a/ep05-rig-p5-wellcontrol/assets_p5_views.js b/ep05-rig-p5-wellcontrol/assets_p5_views.js
@@ -7,7 +7,7 @@ export const CFG = {
       { cam: [4.4, 4.6, 6.0], look: [0, 4.2, 0], fov: 32, note: 'annular + double ram', p: a => { a.api.setCut(0); } },
       { cam: [2.6, 2.4, 6.5], look: [0, 2.9, 0], fov: 40, note: 'half-section', p: a => { a.api.setCut(1); a.api.setAnnular(0.0); a.api.setUpperRam(0); a.api.setBSR(0); } },
       { cam: [2.2, 2.6, 5.2], look: [0, 3.0, 0], fov: 38, note: 'section, closed', p: a => { a.api.setCut(1); a.api.setAnnular(1); a.api.setUpperRam(1); a.api.setLowerRam(1); a.api.setBSR(0); } },
-      { cam: [3.4, 2.3, 2.6], look: [1.0, 1.9, 0], fov: 36, note: 'choke side valves', p: a => { a.api.setCut(0); a.api.setChokeHCR(1); } },
+      { cam: [3.0, 2.6, 3.4], look: [1.0, 2.0, 0], fov: 38, note: 'choke side valves', p: a => { a.api.setCut(0); a.api.setChokeHCR(1); } },
     ],
   },
 };
@@ -37,7 +37,7 @@ CFG.doubleRam = {
 CFG.accumulator = {
   build: P => P.accumulatorUnit(), floor: 0,
   views: [
-    { cam: [4.2, 2.9, 6.2], look: [0, 0.9, 0], fov: 38, note: 'unit', p: a => { a.api.setBottleCut(0); } },
+    { cam: [5.6, 3.6, 8.4], look: [0, 0.9, 0], fov: 40, note: 'unit', p: a => { a.api.setBottleCut(0); } },
     { cam: [1.2, 1.9, 2.4], look: [0, 1.4, 0.3], fov: 36, note: 'manifold + gauges', p: a => { a.api.setBottleCut(0); a.api.setValve(2, 0); a.api.setPumpLamp(1); } },
     { cam: [-1.6, 1.2, 2.3], look: [-2.3, 0.95, 0.57], fov: 34, note: 'bottle cut, precharge', p: a => { a.api.setBottleCut(1); a.api.setCharge(0); a.api.setPsi(0, 1000); } },
     { cam: [-1.6, 1.2, 2.3], look: [-2.3, 0.95, 0.57], fov: 34, note: 'bottle cut, 3000 psi', p: a => { a.api.setBottleCut(1); a.api.setCharge(1); a.api.setPsi(0, 3000); } },
@@ -59,8 +59,8 @@ CFG.chokePanel = {
 CFG.chokeManifold = {
   build: P => P.chokeManifold(), floor: -0.25,
   views: [
-    { cam: [3.4, 3.4, 5.2], look: [0, 0.6, 0], fov: 40, note: 'manifold', p: a => { a.api.setChokeCut(0); } },
-    { cam: [0.9, 1.3, 0.3], look: [-0.1, 0.85, -0.86], fov: 34, note: 'choke A trim cut-away', p: a => { a.api.setChokeCut(1); a.api.setChokeA(0.3); } },
+    { cam: [4.8, 4.6, 7.6], look: [0, 0.5, 0], fov: 42, note: 'manifold', p: a => { a.api.setChokeCut(0); } },
+    { cam: [0.5, 1.1, 0.0], look: [-0.15, 0.85, -0.86], fov: 34, note: 'choke A trim cut-away', p: a => { a.api.setChokeCut(1); a.api.setChokeA(0.3); } },
   ],
 };
 CFG.mgs = {
@@ -75,5 +75,47 @@ CFG.tripTank = {
   views: [
     { cam: [3.4, 2.6, 4.6], look: [-0.2, 1.8, 0], fov: 40, note: 'trip tank', p: a => { a.api.setCut(0); a.api.setLevel(0.6); } },
     { cam: [1.6, 2.2, 3.6], look: [0, 1.9, 0], fov: 40, note: 'cut, level 0.35', p: a => { a.api.setCut(1); a.api.setLevel(0.35); } },
+  ],
+};
+CFG.ibop = {
+  build: P => P.ibopValves(), floor: 0,
+  views: [
+    { cam: [1.1, 1.4, 1.9], look: [0, 0.95, 0], fov: 38, note: 'upper + lower IBOP', p: a => { a.api.setCut(0); } },
+    { cam: [0.5, 1.1, 1.5], look: [0, 0.8, 0], fov: 38, note: 'cut: upper closed, lower open', p: a => { a.api.setCut(1); a.api.setUpper(1); a.api.setLower(0); } },
+  ],
+};
+CFG.fosv = {
+  build: P => P.fosv(), floor: 0,
+  views: [
+    { cam: [0.9, 0.8, 1.3], look: [0.05, 0.3, 0], fov: 38, note: 'FOSV open, wrench beside', p: a => { a.api.setCut(0); a.api.setWrenchIn(0); a.api.setClose(0); } },
+    { cam: [0.6, 0.6, 1.0], look: [0, 0.33, 0], fov: 38, note: 'cut, wrench in, closed', p: a => { a.api.setCut(1); a.api.setWrenchIn(1); a.api.setClose(1); } },
+  ],
+};
+CFG.floatSub = {
+  build: P => P.floatSub(), floor: 0,
+  views: [
+    { cam: [0.3, 0.55, 0.55], look: [0, 0.45, 0], fov: 36, note: 'cut, flapper open', p: a => { a.api.setCut(1); a.api.setFlap(0); } },
+    { cam: [0.3, 0.55, 0.55], look: [0, 0.45, 0], fov: 36, note: 'cut, flapper closed', p: a => { a.api.setCut(1); a.api.setFlap(1); } },
+  ],
+};
+CFG.diverter = {
+  build: P => P.diverter(), floor: 0,
+  views: [
+    { cam: [5.5, 3.6, 8.0], look: [0, 1.0, 0], fov: 40, note: 'diverter + vents', p: a => { a.api.setCut(0); a.api.setVent('R', 1); } },
+    { cam: [1.2, 1.6, 3.2], look: [0, 1.0, 0], fov: 38, note: 'cut, closed', p: a => { a.api.setCut(1); a.api.setClose(1); } },
+  ],
+};
+CFG.testPlug = {
+  build: (P, THREE) => { const g = new THREE.Group(); const ch = P.casingHead(); g.add(ch); const tp = P.testPlug(); tp.position.y = 0.315; g.add(tp); g.api = { setCut: u => ch.api ? null : null }; g.userData.ch = ch; g.userData.tp = tp; return g; }, floor: 0,
+  views: [
+    { cam: [1.0, 1.4, 1.8], look: [0, 0.7, 0], fov: 38, note: 'test plug above casing head', p: a => { a.userData.tp.api.setDrop(0.6); } },
+    { cam: [0.9, 0.9, 1.6], look: [0, 0.5, 0], fov: 38, note: 'landed', p: a => { a.userData.tp.api.setDrop(0); a.userData.tp.api.setSeal(1); } },
+  ],
+};
+CFG.chart = {
+  build: P => P.chartRecorder(), floor: 0,
+  views: [
+    { cam: [0.45, 1.45, 1.35], look: [0, 1.15, 0], fov: 36, note: 'low test', p: a => a.api.setTrace(0.3) },
+    { cam: [0.45, 1.45, 1.35], look: [0, 1.15, 0], fov: 36, note: 'high test hold', p: a => a.api.setTrace(0.95) },
   ],
 };
